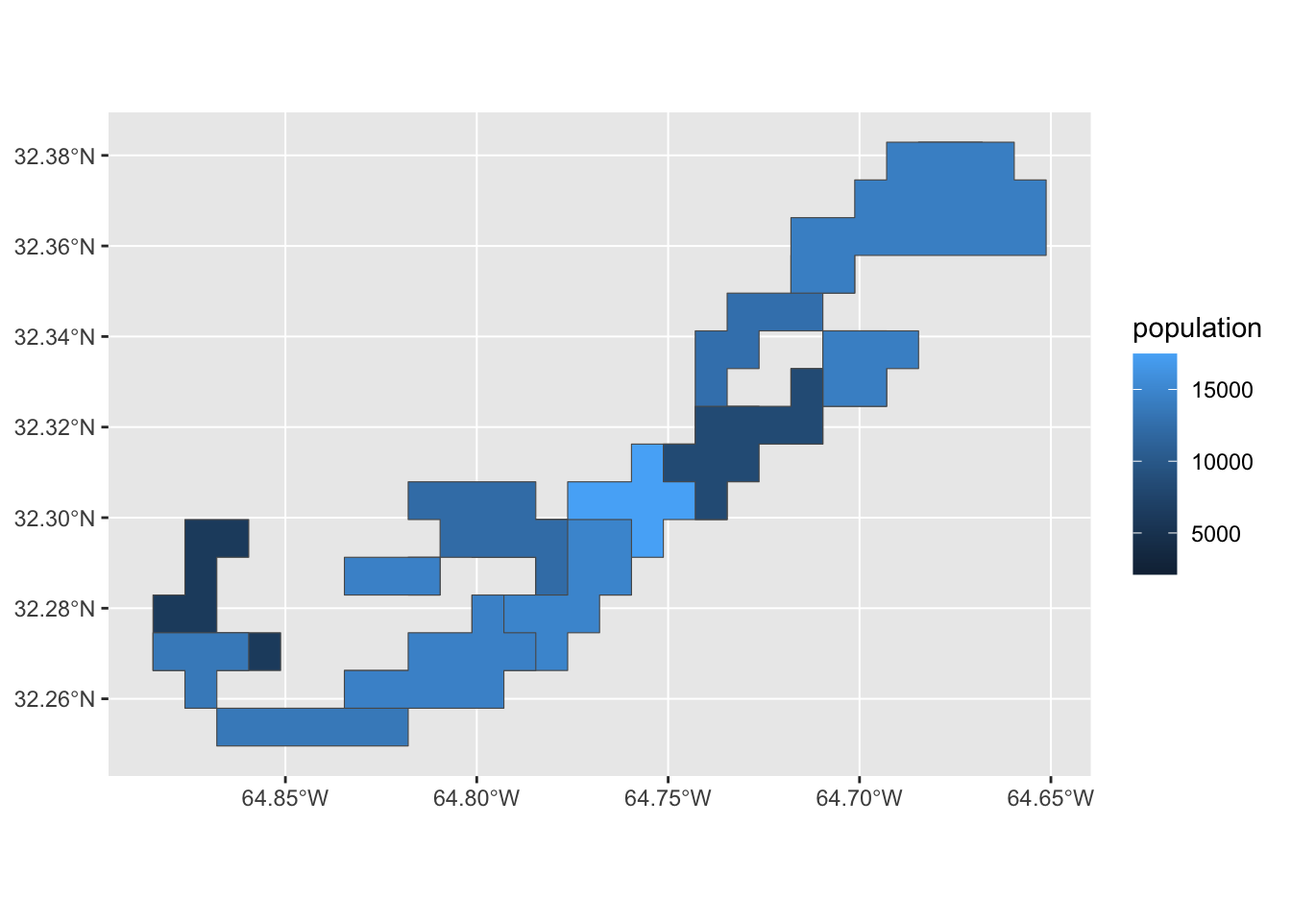
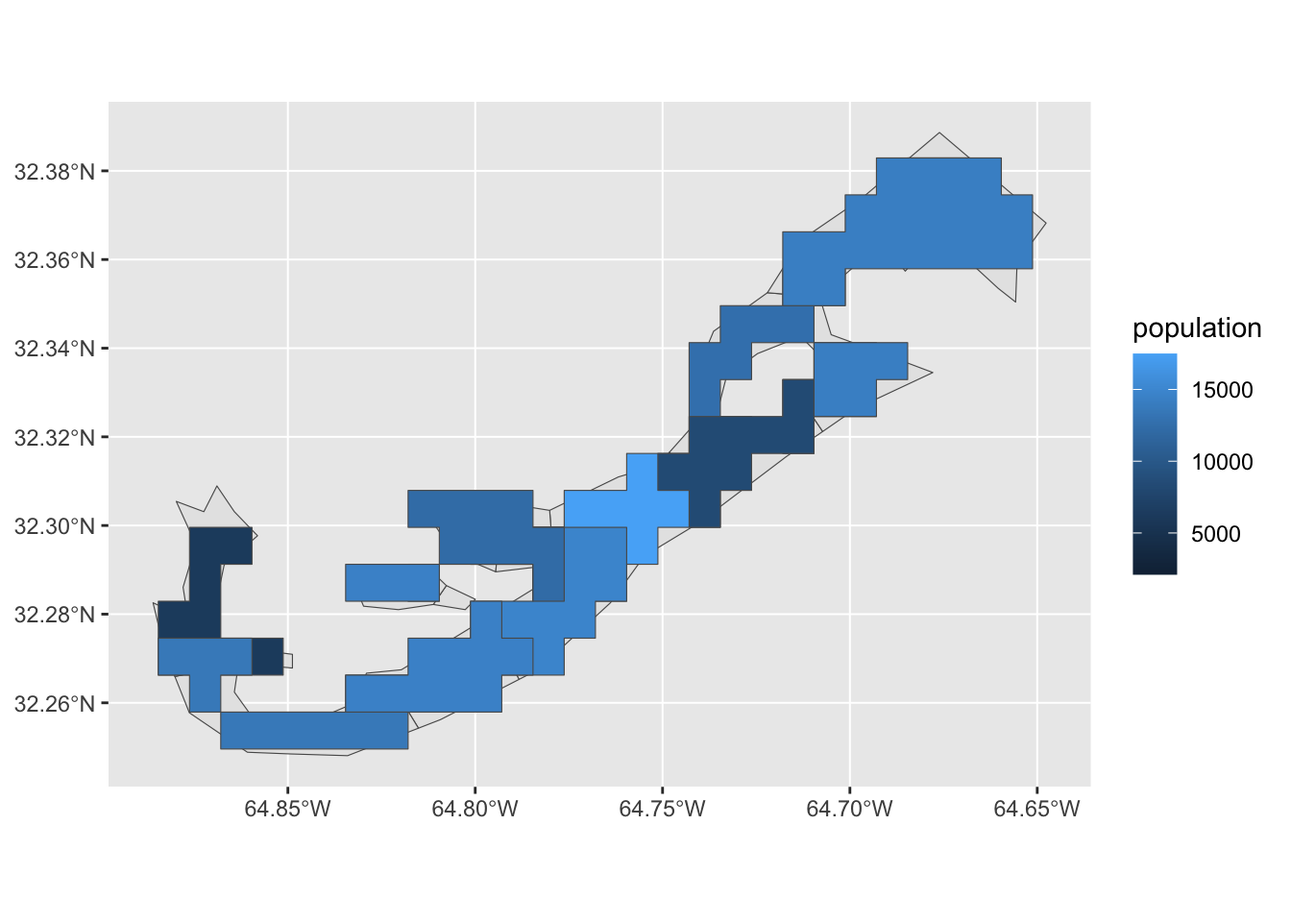
mod6-2

diff --git a/mod6_proj.html b/mod6_proj.html
@@ -583,6 +583,12 @@ framework that’s become so much of the class. For this we use
 pixel in a spatial field represents 3 dimensions: some area of a
 particular 2D resolution (e.g., 30 x 30 m, 1 x 1 km) and some value of
 attribute, the color.</p>
+<p>Say for instance, we wanted to know the spatial distribution of
+population in Bermuda in 2020 at a resolution of 1 x 1 km, we could load
+a raster set from the <a
+href="https://www.worldpop.org/">worldpop.org</a>, and organization
+devoted to distributing such data. For this, we’ll depend on the
+<code>R</code> raster powerhouse package, <code>stars</code></p>
 <pre class="r"><code>library(stars)</code></pre>
 <pre><code>## Loading required package: abind</code></pre>
 <pre class="r"><code>bermuda_pop &lt;- read_stars(&quot;https://data.worldpop.org/GIS/Population_Density/Global_2000_2020_1km/2020/BMU/bmu_pd_2020_1km.tif&quot;) %&gt;% st_crop(bermuda)
@@ -591,15 +597,49 @@ attribute, the color.</p>
   ggplot()+
   geom_stars(data=bermuda_pop)</code></pre>
 <p><img src="mod6_proj_files/figure-html/rastintro-1.png" width="672" /></p>
+<p>Here, we load the 1 km raster using <code>read_stars()</code> and
+cropped the data to the extent of our shape map using
+<code>st_crop()</code>. Plotting is simple as, like with
+<code>sf</code>, <code>stars</code> was designed to work well with
+<code>tidyverse</code> and <code>ggplot</code>. Here, we can make use of
+<code>geom_stars()</code> to plot a <code>stars</code> object in
+<code>ggplot</code>. Notice that, because Bermuda is a small island, the
+1 km resolution is rather coarse.</p>
 </div>
 <div id="combining-shape-and-raster-data" class="section level3">
 <h3>Combining shape and raster data</h3>
+<p>Now, say we wanted to visually assess how these population tiles vary
+with the parish geopolitical values in the the Bermuda map. For this, we
+need to combine the shape and population data and calculate the total
+population in each parish. We can start with the
+<code>bermuda_pop</code> <code>stars</code> object and then:</p>
+<ul>
+<li>set the name of the first (and only) layer to an intiutive name,
+“population”, with <code>setNames()</code></li>
+<li>convert to <code>stars</code> object to an <code>sf</code> object
+with <code>st_as_sf()</code></li>
+<li>join the <code>bermuda</code> shape data to this, now
+<code>sf</code>, object with <code>sf_join</code>. This nests the raster
+(i.e., populaiton) data within the extents of shape (i.e., parish)
+data</li>
+<li>use <code>dplyr</code>’s <code>group_by()</code> to group by the
+parish (<code>name</code>)</li>
+<li>and finally, sum the population based on this grouping.</li>
+</ul>
+<p>What’s left to do is plot with <code>geom_sf()</code> as before with
+the <code>bermuda</code> <code>sf</code> object.</p>
 <pre class="r"><code>bermuda2 &lt;-  bermuda_pop %&gt;% 
   setNames(&quot;population&quot;) %&gt;% 
   st_as_sf() %&gt;% 
   st_join( bermuda) %&gt;% 
   group_by(name) %&gt;% 
-  summarise(population=sum(population))</code></pre>
+  summarise(population=sum(population))
+
+bermuda %&gt;% 
+  ggplot() +
+  geom_sf()+
+  geom_sf(data=bermuda2,aes(fill=population))</code></pre>
+<p><img src="mod6_proj_files/figure-html/comb-1.png" width="672" /></p>
 <pre class="r"><code>bermuda_house &lt;- read_stars(&quot;data/bermuda_house_colors.tiff&quot;) %&gt;% setNames(&quot;house_color&quot;)
 
   ggplot()+
@@ -612,8 +652,8 @@ attribute, the color.</p>
 <pre class="r"><code>library(mapview)
 
 mapview(bermuda2, zcol = &quot;population&quot;)</code></pre>
-<div id="htmlwidget-01418e5c950f62c81c88" style="width:672px;height:480px;" class="leaflet html-widget"></div>
-<script type="application/json" data-for="htmlwidget-01418e5c950f62c81c88">{"x":{"options":{"minZoom":1,"maxZoom":52,"crs":{"crsClass":"L.CRS.EPSG3857","code":null,"proj4def":null,"projectedBounds":null,"options":{}},"preferCanvas":false,"bounceAtZoomLimits":false,"maxBounds":[[[-90,-370]],[[90,370]]]},"calls":[{"method":"addProviderTiles","args":["CartoDB.Positron","CartoDB.Positron","CartoDB.Positron",{"errorTileUrl":"","noWrap":false,"detectRetina":false,"pane":"tilePane"}]},{"method":"addProviderTiles","args":["CartoDB.DarkMatter","CartoDB.DarkMatter","CartoDB.DarkMatter",{"errorTileUrl":"","noWrap":false,"detectRetina":false,"pane":"tilePane"}]},{"method":"addProviderTiles","args":["OpenStreetMap","OpenStreetMap","OpenStreetMap",{"errorTileUrl":"","noWrap":false,"detectRetina":false,"pane":"tilePane"}]},{"method":"addProviderTiles","args":["Esri.WorldImagery","Esri.WorldImagery","Esri.WorldImagery",{"errorTileUrl":"","noWrap":false,"detectRetina":false,"pane":"tilePane"}]},{"method":"addProviderTiles","args":["OpenTopoMap","OpenTopoMap","OpenTopoMap",{"errorTileUrl":"","noWrap":false,"detectRetina":false,"pane":"tilePane"}]},{"method":"createMapPane","args":["polygon",420]},{"method":"addPolygons","args":[[[[{"lng":[-64.7929164147102,-64.8012497480102,-64.8012497480102,-64.7929164147102,-64.7845830814102,-64.7845830814102,-64.7762497481102,-64.7762497481102,-64.7762497481102,-64.7845830814102,-64.7929164147102],"lat":[32.2995833986019,32.2995833986019,32.2912500653019,32.2912500653019,32.2912500653019,32.2829167320019,32.2829167320019,32.2912500653019,32.2995833986019,32.2995833986019,32.2995833986019]}]],[[{"lng":[-64.6762497485102,-64.6845830818102,-64.6845830818102,-64.6845830818102,-64.6762497485102,-64.6679164152102,-64.6679164152102,-64.6679164152102,-64.6762497485102],"lat":[32.3829167316019,32.3829167316019,32.3745833983019,32.3662500650019,32.3662500650019,32.3662500650019,32.3745833983019,32.3829167316019,32.3829167316019]}]],[[{"lng":[-64.7345830816102,-64.7345830816102,-64.7429164149102,-64.7512497482102,-64.7595830815102,-64.7595830815102,-64.7679164148102,-64.7762497481102,-64.7762497481102,-64.7845830814102,-64.7845830814102,-64.7845830814102,-64.7762497481102,-64.7762497481102,-64.7679164148102,-64.7679164148102,-64.7595830815102,-64.7595830815102,-64.7512497482102,-64.7512497482102,-64.7429164149102,-64.7345830816102,-64.7345830816102],"lat":[32.3079167319019,32.3162500652019,32.3162500652019,32.3162500652019,32.3162500652019,32.3079167319019,32.3079167319019,32.3079167319019,32.2995833986019,32.2995833986019,32.2912500653019,32.2829167320019,32.2829167320019,32.2912500653019,32.2912500653019,32.2829167320019,32.2829167320019,32.2912500653019,32.2912500653019,32.2995833986019,32.2995833986019,32.2995833986019,32.3079167319019]}]],[[{"lng":[-64.7095830817102,-64.7179164150102,-64.7179164150102,-64.7179164150102,-64.7095830817102,-64.7095830817102,-64.7012497484102,-64.6929164151102,-64.6929164151102,-64.6929164151102,-64.7012497484102,-64.7095830817102,-64.7095830817102],"lat":[32.3329167318019,32.3329167318019,32.3245833985019,32.3162500652019,32.3162500652019,32.3245833985019,32.3245833985019,32.3245833985019,32.3329167318019,32.3412500651019,32.3412500651019,32.3412500651019,32.3329167318019]}],[{"lng":[-64.7429164149102,-64.7429164149102,-64.7429164149102,-64.7345830816102,-64.7262497483102,-64.7262497483102,-64.7345830816102,-64.7345830816102,-64.7262497483102,-64.7262497483102,-64.7179164150102,-64.7095830817102,-64.7095830817102,-64.7012497484102,-64.7012497484102,-64.7095830817102,-64.7179164150102,-64.7179164150102,-64.7262497483102,-64.7345830816102,-64.7345830816102,-64.7429164149102,-64.7429164149102],"lat":[32.3329167318019,32.3245833985019,32.3162500652019,32.3162500652019,32.3162500652019,32.3245833985019,32.3245833985019,32.3329167318019,32.3329167318019,32.3412500651019,32.3412500651019,32.3412500651019,32.3495833984019,32.3495833984019,32.3579167317019,32.3579167317019,32.3579167317019,32.3495833984019,32.3495833984019,32.3495833984019,32.3412500651019,32.3412500651019,32.3329167318019]}]],[[{"lng":[-64.8012497480102,-64.8012497480102,-64.7929164147102,-64.7845830814102,-64.7762497481102,-64.7762497481102,-64.7679164148102,-64.7679164148102,-64.7595830815102,-64.7595830815102,-64.7595830815102,-64.7679164148102,-64.7762497481102,-64.7845830814102,-64.7845830814102,-64.7845830814102,-64.7929164147102,-64.8012497480102,-64.8012497480102],"lat":[32.2745833987019,32.2662500654019,32.2662500654019,32.2662500654019,32.2662500654019,32.2745833987019,32.2745833987019,32.2829167320019,32.2829167320019,32.2912500653019,32.2995833986019,32.2995833986019,32.2995833986019,32.2995833986019,32.2912500653019,32.2829167320019,32.2829167320019,32.2829167320019,32.2745833987019]}],[{"lng":[-64.8179164146102,-64.8095830813102,-64.8095830813102,-64.8179164146102,-64.8179164146102],"lat":[32.2829167320019,32.2829167320019,32.2912500653019,32.2912500653019,32.2829167320019]}]],[[{"lng":[-64.8095830813102,-64.8179164146102,-64.8179164146102,-64.8095830813102,-64.8095830813102,-64.8012497480102,-64.7929164147102,-64.7845830814102,-64.7845830814102,-64.7762497481102,-64.7762497481102,-64.7762497481102,-64.7845830814102,-64.7845830814102,-64.7929164147102,-64.8012497480102,-64.8095830813102],"lat":[32.3079167319019,32.3079167319019,32.2995833986019,32.2995833986019,32.2912500653019,32.2912500653019,32.2912500653019,32.2912500653019,32.2829167320019,32.2829167320019,32.2912500653019,32.2995833986019,32.2995833986019,32.3079167319019,32.3079167319019,32.3079167319019,32.3079167319019]}]],[[{"lng":[-64.6512497486102,-64.6512497486102,-64.6595830819102,-64.6595830819102,-64.6679164152102,-64.6762497485102,-64.6845830818102,-64.6929164151102,-64.6929164151102,-64.7012497484102,-64.7012497484102,-64.7095830817102,-64.7179164150102,-64.7179164150102,-64.7179164150102,-64.7095830817102,-64.7012497484102,-64.7012497484102,-64.6929164151102,-64.6845830818102,-64.6762497485102,-64.6679164152102,-64.6595830819102,-64.6512497486102,-64.6512497486102],"lat":[32.3662500650019,32.3745833983019,32.3745833983019,32.3829167316019,32.3829167316019,32.3829167316019,32.3829167316019,32.3829167316019,32.3745833983019,32.3745833983019,32.3662500650019,32.3662500650019,32.3662500650019,32.3579167317019,32.3495833984019,32.3495833984019,32.3495833984019,32.3579167317019,32.3579167317019,32.3579167317019,32.3579167317019,32.3579167317019,32.3579167317019,32.3579167317019,32.3662500650019]}],[{"lng":[-64.7095830817102,-64.7012497484102,-64.6929164151102,-64.6929164151102,-64.6845830818102,-64.6845830818102,-64.6929164151102,-64.7012497484102,-64.7095830817102,-64.7095830817102,-64.7095830817102],"lat":[32.3245833985019,32.3245833985019,32.3245833985019,32.3329167318019,32.3329167318019,32.3412500651019,32.3412500651019,32.3412500651019,32.3412500651019,32.3329167318019,32.3245833985019]}]],[[{"lng":[-64.8679164144102,-64.8762497477102,-64.8762497477102,-64.8762497477102,-64.8845830810102,-64.8845830810102,-64.8845830810102,-64.8762497477102,-64.8679164144102,-64.8595830811102,-64.8512497478102,-64.8512497478102,-64.8595830811102,-64.8679164144102,-64.8679164144102,-64.8679164144102,-64.8595830811102,-64.8595830811102,-64.8679164144102],"lat":[32.2995833986019,32.2995833986019,32.2912500653019,32.2829167320019,32.2829167320019,32.2745833987019,32.2662500654019,32.2662500654019,32.2662500654019,32.2662500654019,32.2662500654019,32.2745833987019,32.2745833987019,32.2745833987019,32.2829167320019,32.2912500653019,32.2912500653019,32.2995833986019,32.2995833986019]}]],[[{"lng":[-64.7429164149102,-64.7512497482102,-64.7512497482102,-64.7429164149102,-64.7429164149102,-64.7345830816102,-64.7345830816102,-64.7262497483102,-64.7262497483102,-64.7179164150102,-64.7095830817102,-64.7095830817102,-64.7095830817102,-64.7179164150102,-64.7179164150102,-64.7262497483102,-64.7345830816102,-64.7429164149102,-64.7429164149102],"lat":[32.3162500652019,32.3162500652019,32.3079167319019,32.3079167319019,32.2995833986019,32.2995833986019,32.3079167319019,32.3079167319019,32.3162500652019,32.3162500652019,32.3162500652019,32.3245833985019,32.3329167318019,32.3329167318019,32.3245833985019,32.3245833985019,32.3245833985019,32.3245833985019,32.3162500652019]}]],[[{"lng":[-64.8762497477102,-64.8679164144102,-64.8679164144102,-64.8595830811102,-64.8595830811102,-64.8679164144102,-64.8762497477102,-64.8845830810102,-64.8845830810102,-64.8762497477102,-64.8762497477102],"lat":[32.2579167321019,32.2579167321019,32.2662500654019,32.2662500654019,32.2745833987019,32.2745833987019,32.2745833987019,32.2745833987019,32.2662500654019,32.2662500654019,32.2579167321019]}],[{"lng":[-64.8679164144102,-64.8595830811102,-64.8512497478102,-64.8429164145102,-64.8345830812102,-64.8262497479102,-64.8179164146102,-64.8179164146102,-64.8095830813102,-64.8095830813102,-64.8179164146102,-64.8262497479102,-64.8345830812102,-64.8345830812102,-64.8429164145102,-64.8512497478102,-64.8595830811102,-64.8679164144102,-64.8679164144102],"lat":[32.2495833988019,32.2495833988019,32.2495833988019,32.2495833988019,32.2495833988019,32.2495833988019,32.2495833988019,32.2579167321019,32.2579167321019,32.2662500654019,32.2662500654019,32.2662500654019,32.2662500654019,32.2579167321019,32.2579167321019,32.2579167321019,32.2579167321019,32.2579167321019,32.2495833988019]}]],[[{"lng":[-64.8179164146102,-64.8262497479102,-64.8345830812102,-64.8345830812102,-64.8262497479102,-64.8179164146102,-64.8095830813102,-64.8095830813102,-64.8179164146102],"lat":[32.2912500653019,32.2912500653019,32.2912500653019,32.2829167320019,32.2829167320019,32.2829167320019,32.2829167320019,32.2912500653019,32.2912500653019]}],[{"lng":[-64.8262497479102,-64.8345830812102,-64.8345830812102,-64.8262497479102,-64.8179164146102,-64.8095830813102,-64.8012497480102,-64.7929164147102,-64.7929164147102,-64.7845830814102,-64.7845830814102,-64.7929164147102,-64.7929164147102,-64.8012497480102,-64.8012497480102,-64.8095830813102,-64.8179164146102,-64.8179164146102,-64.8262497479102],"lat":[32.2662500654019,32.2662500654019,32.2579167321019,32.2579167321019,32.2579167321019,32.2579167321019,32.2579167321019,32.2579167321019,32.2662500654019,32.2662500654019,32.2745833987019,32.2745833987019,32.2829167320019,32.2829167320019,32.2745833987019,32.2745833987019,32.2745833987019,32.2662500654019,32.2662500654019]}]]],null,"bermuda2 - population",{"crs":{"crsClass":"L.CRS.EPSG3857","code":null,"proj4def":null,"projectedBounds":null,"options":{}},"pane":"polygon","stroke":true,"color":"#333333","weight":0.5,"opacity":[0.9,0.9,0.9,0.9,0.9,0.9,0.9,0.9,0.9,0.9,0.9],"fill":true,"fillColor":["#006791","#4B0055","#FDE333","#00C475","#7ED357","#00C475","#7ED357","#006791","#008298","#00C475","#7ED357"],"fillOpacity":[0.6,0.6,0.6,0.6,0.6,0.6,0.6,0.6,0.6,0.6,0.6],"smoothFactor":1,"noClip":false},["<div class='scrollableContainer'><table class=mapview-popup id='popup'><tr class='coord'><td><\/td><th><b>Feature ID&emsp;<\/b><\/th><td>1&emsp;<\/td><\/tr><tr><td>1<\/td><th>name&emsp;<\/th><td>City of Hamilton&emsp;<\/td><\/tr><tr><td>2<\/td><th>population&emsp;<\/th><td> 6340.716&emsp;<\/td><\/tr><tr><td>3<\/td><th>geometry&emsp;<\/th><td>sfc_MULTIPOLYGON&emsp;<\/td><\/tr><\/table><\/div>","<div class='scrollableContainer'><table class=mapview-popup id='popup'><tr class='coord'><td><\/td><th><b>Feature ID&emsp;<\/b><\/th><td>2&emsp;<\/td><\/tr><tr><td>1<\/td><th>name&emsp;<\/th><td>City of Saint George&emsp;<\/td><\/tr><tr><td>2<\/td><th>population&emsp;<\/th><td> 2112.074&emsp;<\/td><\/tr><tr><td>3<\/td><th>geometry&emsp;<\/th><td>sfc_MULTIPOLYGON&emsp;<\/td><\/tr><\/table><\/div>","<div class='scrollableContainer'><table class=mapview-popup id='popup'><tr class='coord'><td><\/td><th><b>Feature ID&emsp;<\/b><\/th><td>3&emsp;<\/td><\/tr><tr><td>1<\/td><th>name&emsp;<\/th><td>Devonshire&emsp;<\/td><\/tr><tr><td>2<\/td><th>population&emsp;<\/th><td>17478.636&emsp;<\/td><\/tr><tr><td>3<\/td><th>geometry&emsp;<\/th><td>sfc_MULTIPOLYGON&emsp;<\/td><\/tr><\/table><\/div>","<div class='scrollableContainer'><table class=mapview-popup id='popup'><tr class='coord'><td><\/td><th><b>Feature ID&emsp;<\/b><\/th><td>4&emsp;<\/td><\/tr><tr><td>1<\/td><th>name&emsp;<\/th><td>Hamilton&emsp;<\/td><\/tr><tr><td>2<\/td><th>population&emsp;<\/th><td>12606.292&emsp;<\/td><\/tr><tr><td>3<\/td><th>geometry&emsp;<\/th><td>sfc_MULTIPOLYGON&emsp;<\/td><\/tr><\/table><\/div>","<div class='scrollableContainer'><table class=mapview-popup id='popup'><tr class='coord'><td><\/td><th><b>Feature ID&emsp;<\/b><\/th><td>5&emsp;<\/td><\/tr><tr><td>1<\/td><th>name&emsp;<\/th><td>Paget&emsp;<\/td><\/tr><tr><td>2<\/td><th>population&emsp;<\/th><td>14804.220&emsp;<\/td><\/tr><tr><td>3<\/td><th>geometry&emsp;<\/th><td>sfc_MULTIPOLYGON&emsp;<\/td><\/tr><\/table><\/div>","<div class='scrollableContainer'><table class=mapview-popup id='popup'><tr class='coord'><td><\/td><th><b>Feature ID&emsp;<\/b><\/th><td>6&emsp;<\/td><\/tr><tr><td>1<\/td><th>name&emsp;<\/th><td>Pembroke&emsp;<\/td><\/tr><tr><td>2<\/td><th>population&emsp;<\/th><td>12243.552&emsp;<\/td><\/tr><tr><td>3<\/td><th>geometry&emsp;<\/th><td>sfc_MULTIPOLYGON&emsp;<\/td><\/tr><\/table><\/div>","<div class='scrollableContainer'><table class=mapview-popup id='popup'><tr class='coord'><td><\/td><th><b>Feature ID&emsp;<\/b><\/th><td>7&emsp;<\/td><\/tr><tr><td>1<\/td><th>name&emsp;<\/th><td>Saint George's&emsp;<\/td><\/tr><tr><td>2<\/td><th>population&emsp;<\/th><td>14198.692&emsp;<\/td><\/tr><tr><td>3<\/td><th>geometry&emsp;<\/th><td>sfc_MULTIPOLYGON&emsp;<\/td><\/tr><\/table><\/div>","<div class='scrollableContainer'><table class=mapview-popup id='popup'><tr class='coord'><td><\/td><th><b>Feature ID&emsp;<\/b><\/th><td>8&emsp;<\/td><\/tr><tr><td>1<\/td><th>name&emsp;<\/th><td>Sandys&emsp;<\/td><\/tr><tr><td>2<\/td><th>population&emsp;<\/th><td> 6111.398&emsp;<\/td><\/tr><tr><td>3<\/td><th>geometry&emsp;<\/th><td>sfc_MULTIPOLYGON&emsp;<\/td><\/tr><\/table><\/div>","<div class='scrollableContainer'><table class=mapview-popup id='popup'><tr class='coord'><td><\/td><th><b>Feature ID&emsp;<\/b><\/th><td>9&emsp;<\/td><\/tr><tr><td>1<\/td><th>name&emsp;<\/th><td>Smith's&emsp;<\/td><\/tr><tr><td>2<\/td><th>population&emsp;<\/th><td> 8230.446&emsp;<\/td><\/tr><tr><td>3<\/td><th>geometry&emsp;<\/th><td>sfc_MULTIPOLYGON&emsp;<\/td><\/tr><\/table><\/div>","<div class='scrollableContainer'><table class=mapview-popup id='popup'><tr class='coord'><td><\/td><th><b>Feature ID&emsp;<\/b><\/th><td>10&emsp;<\/td><\/tr><tr><td>1<\/td><th>name&emsp;<\/th><td>Southampton&emsp;<\/td><\/tr><tr><td>2<\/td><th>population&emsp;<\/th><td>13538.276&emsp;<\/td><\/tr><tr><td>3<\/td><th>geometry&emsp;<\/th><td>sfc_MULTIPOLYGON&emsp;<\/td><\/tr><\/table><\/div>","<div class='scrollableContainer'><table class=mapview-popup id='popup'><tr class='coord'><td><\/td><th><b>Feature ID&emsp;<\/b><\/th><td>11&emsp;<\/td><\/tr><tr><td>1<\/td><th>name&emsp;<\/th><td>Warwick&emsp;<\/td><\/tr><tr><td>2<\/td><th>population&emsp;<\/th><td>14461.775&emsp;<\/td><\/tr><tr><td>3<\/td><th>geometry&emsp;<\/th><td>sfc_MULTIPOLYGON&emsp;<\/td><\/tr><\/table><\/div>"],{"maxWidth":800,"minWidth":50,"autoPan":true,"keepInView":false,"closeButton":true,"closeOnClick":true,"className":""},["6340.71606445312","2112.07443237305","17478.6361694336","12606.2922363281","14804.2196350098","12243.551574707","14198.6921081543","6111.39785766602","8230.44647216797","13538.2760009766","14461.7752380371"],{"interactive":false,"permanent":false,"direction":"auto","opacity":1,"offset":[0,0],"textsize":"10px","textOnly":false,"className":"","sticky":true},{"stroke":true,"weight":1,"opacity":0.9,"fillOpacity":0.84,"bringToFront":false,"sendToBack":false}]},{"method":"addScaleBar","args":[{"maxWidth":100,"metric":true,"imperial":true,"updateWhenIdle":true,"position":"bottomleft"}]},{"method":"addHomeButton","args":[-64.8845830810102,32.2495833988019,-64.6512497486102,32.3829167316019,true,"bermuda2 - population","Zoom to bermuda2 - population","<strong> bermuda2 - population <\/strong>","bottomright"]},{"method":"addLayersControl","args":[["CartoDB.Positron","CartoDB.DarkMatter","OpenStreetMap","Esri.WorldImagery","OpenTopoMap"],"bermuda2 - population",{"collapsed":true,"autoZIndex":true,"position":"topleft"}]},{"method":"addLegend","args":[{"colors":["#4B0055 , #403073 12.285933574026%, #1C598A 25.3012068291776%, #017D97 38.3164800843292%, #029E94 51.3317533394808%, #05BA81 64.3470265946324%, #6BCF60 77.362299849784%, #C4DE34 90.3775731049356%, #FDE333 "],"labels":["4,000","6,000","8,000","10,000","12,000","14,000","16,000"],"na_color":null,"na_label":"NA","opacity":1,"position":"topright","type":"numeric","title":"bermuda2 - population","extra":{"p_1":0.12285933574026,"p_n":0.903775731049356},"layerId":null,"className":"info legend","group":"bermuda2 - population"}]}],"limits":{"lat":[32.2495833988019,32.3829167316019],"lng":[-64.8845830810102,-64.6512497486102]},"fitBounds":[32.2495833988019,-64.8845830810102,32.3829167316019,-64.6512497486102,[]]},"evals":[],"jsHooks":{"render":[{"code":"function(el, x, data) {\n  return (\n      function(el, x, data) {\n      // get the leaflet map\n      var map = this; //HTMLWidgets.find('#' + el.id);\n      // we need a new div element because we have to handle\n      // the mouseover output separately\n      // debugger;\n      function addElement () {\n      // generate new div Element\n      var newDiv = $(document.createElement('div'));\n      // append at end of leaflet htmlwidget container\n      $(el).append(newDiv);\n      //provide ID and style\n      newDiv.addClass('lnlt');\n      newDiv.css({\n      'position': 'relative',\n      'bottomleft':  '0px',\n      'background-color': 'rgba(255, 255, 255, 0.7)',\n      'box-shadow': '0 0 2px #bbb',\n      'background-clip': 'padding-box',\n      'margin': '0',\n      'padding-left': '5px',\n      'color': '#333',\n      'font': '9px/1.5 \"Helvetica Neue\", Arial, Helvetica, sans-serif',\n      'z-index': '700',\n      });\n      return newDiv;\n      }\n\n\n      // check for already existing lnlt class to not duplicate\n      var lnlt = $(el).find('.lnlt');\n\n      if(!lnlt.length) {\n      lnlt = addElement();\n\n      // grab the special div we generated in the beginning\n      // and put the mousmove output there\n\n      map.on('mousemove', function (e) {\n      if (e.originalEvent.ctrlKey) {\n      if (document.querySelector('.lnlt') === null) lnlt = addElement();\n      lnlt.text(\n                           ' lon: ' + (e.latlng.lng).toFixed(5) +\n                           ' | lat: ' + (e.latlng.lat).toFixed(5) +\n                           ' | zoom: ' + map.getZoom() +\n                           ' | x: ' + L.CRS.EPSG3857.project(e.latlng).x.toFixed(0) +\n                           ' | y: ' + L.CRS.EPSG3857.project(e.latlng).y.toFixed(0) +\n                           ' | epsg: 3857 ' +\n                           ' | proj4: +proj=merc +a=6378137 +b=6378137 +lat_ts=0.0 +lon_0=0.0 +x_0=0.0 +y_0=0 +k=1.0 +units=m +nadgrids=@null +no_defs ');\n      } else {\n      if (document.querySelector('.lnlt') === null) lnlt = addElement();\n      lnlt.text(\n                      ' lon: ' + (e.latlng.lng).toFixed(5) +\n                      ' | lat: ' + (e.latlng.lat).toFixed(5) +\n                      ' | zoom: ' + map.getZoom() + ' ');\n      }\n      });\n\n      // remove the lnlt div when mouse leaves map\n      map.on('mouseout', function (e) {\n      var strip = document.querySelector('.lnlt');\n      if( strip !==null) strip.remove();\n      });\n\n      };\n\n      //$(el).keypress(67, function(e) {\n      map.on('preclick', function(e) {\n      if (e.originalEvent.ctrlKey) {\n      if (document.querySelector('.lnlt') === null) lnlt = addElement();\n      lnlt.text(\n                      ' lon: ' + (e.latlng.lng).toFixed(5) +\n                      ' | lat: ' + (e.latlng.lat).toFixed(5) +\n                      ' | zoom: ' + map.getZoom() + ' ');\n      var txt = document.querySelector('.lnlt').textContent;\n      console.log(txt);\n      //txt.innerText.focus();\n      //txt.select();\n      setClipboardText('\"' + txt + '\"');\n      }\n      });\n\n      }\n      ).call(this.getMap(), el, x, data);\n}","data":null},{"code":"function(el, x, data) {\n  return (function(el,x,data){\n           var map = this;\n\n           map.on('keypress', function(e) {\n               console.log(e.originalEvent.code);\n               var key = e.originalEvent.code;\n               if (key === 'KeyE') {\n                   var bb = this.getBounds();\n                   var txt = JSON.stringify(bb);\n                   console.log(txt);\n\n                   setClipboardText('\\'' + txt + '\\'');\n               }\n           })\n        }).call(this.getMap(), el, x, data);\n}","data":null}]}}</script>
+<div id="htmlwidget-69444fe36f92cf6d1955" style="width:672px;height:480px;" class="leaflet html-widget"></div>
+<script type="application/json" data-for="htmlwidget-69444fe36f92cf6d1955">{"x":{"options":{"minZoom":1,"maxZoom":52,"crs":{"crsClass":"L.CRS.EPSG3857","code":null,"proj4def":null,"projectedBounds":null,"options":{}},"preferCanvas":false,"bounceAtZoomLimits":false,"maxBounds":[[[-90,-370]],[[90,370]]]},"calls":[{"method":"addProviderTiles","args":["CartoDB.Positron","CartoDB.Positron","CartoDB.Positron",{"errorTileUrl":"","noWrap":false,"detectRetina":false,"pane":"tilePane"}]},{"method":"addProviderTiles","args":["CartoDB.DarkMatter","CartoDB.DarkMatter","CartoDB.DarkMatter",{"errorTileUrl":"","noWrap":false,"detectRetina":false,"pane":"tilePane"}]},{"method":"addProviderTiles","args":["OpenStreetMap","OpenStreetMap","OpenStreetMap",{"errorTileUrl":"","noWrap":false,"detectRetina":false,"pane":"tilePane"}]},{"method":"addProviderTiles","args":["Esri.WorldImagery","Esri.WorldImagery","Esri.WorldImagery",{"errorTileUrl":"","noWrap":false,"detectRetina":false,"pane":"tilePane"}]},{"method":"addProviderTiles","args":["OpenTopoMap","OpenTopoMap","OpenTopoMap",{"errorTileUrl":"","noWrap":false,"detectRetina":false,"pane":"tilePane"}]},{"method":"createMapPane","args":["polygon",420]},{"method":"addPolygons","args":[[[[{"lng":[-64.7929164147102,-64.8012497480102,-64.8012497480102,-64.7929164147102,-64.7845830814102,-64.7845830814102,-64.7762497481102,-64.7762497481102,-64.7762497481102,-64.7845830814102,-64.7929164147102],"lat":[32.2995833986019,32.2995833986019,32.2912500653019,32.2912500653019,32.2912500653019,32.2829167320019,32.2829167320019,32.2912500653019,32.2995833986019,32.2995833986019,32.2995833986019]}]],[[{"lng":[-64.6762497485102,-64.6845830818102,-64.6845830818102,-64.6845830818102,-64.6762497485102,-64.6679164152102,-64.6679164152102,-64.6679164152102,-64.6762497485102],"lat":[32.3829167316019,32.3829167316019,32.3745833983019,32.3662500650019,32.3662500650019,32.3662500650019,32.3745833983019,32.3829167316019,32.3829167316019]}]],[[{"lng":[-64.7345830816102,-64.7345830816102,-64.7429164149102,-64.7512497482102,-64.7595830815102,-64.7595830815102,-64.7679164148102,-64.7762497481102,-64.7762497481102,-64.7845830814102,-64.7845830814102,-64.7845830814102,-64.7762497481102,-64.7762497481102,-64.7679164148102,-64.7679164148102,-64.7595830815102,-64.7595830815102,-64.7512497482102,-64.7512497482102,-64.7429164149102,-64.7345830816102,-64.7345830816102],"lat":[32.3079167319019,32.3162500652019,32.3162500652019,32.3162500652019,32.3162500652019,32.3079167319019,32.3079167319019,32.3079167319019,32.2995833986019,32.2995833986019,32.2912500653019,32.2829167320019,32.2829167320019,32.2912500653019,32.2912500653019,32.2829167320019,32.2829167320019,32.2912500653019,32.2912500653019,32.2995833986019,32.2995833986019,32.2995833986019,32.3079167319019]}]],[[{"lng":[-64.7095830817102,-64.7179164150102,-64.7179164150102,-64.7179164150102,-64.7095830817102,-64.7095830817102,-64.7012497484102,-64.6929164151102,-64.6929164151102,-64.6929164151102,-64.7012497484102,-64.7095830817102,-64.7095830817102],"lat":[32.3329167318019,32.3329167318019,32.3245833985019,32.3162500652019,32.3162500652019,32.3245833985019,32.3245833985019,32.3245833985019,32.3329167318019,32.3412500651019,32.3412500651019,32.3412500651019,32.3329167318019]}],[{"lng":[-64.7429164149102,-64.7429164149102,-64.7429164149102,-64.7345830816102,-64.7262497483102,-64.7262497483102,-64.7345830816102,-64.7345830816102,-64.7262497483102,-64.7262497483102,-64.7179164150102,-64.7095830817102,-64.7095830817102,-64.7012497484102,-64.7012497484102,-64.7095830817102,-64.7179164150102,-64.7179164150102,-64.7262497483102,-64.7345830816102,-64.7345830816102,-64.7429164149102,-64.7429164149102],"lat":[32.3329167318019,32.3245833985019,32.3162500652019,32.3162500652019,32.3162500652019,32.3245833985019,32.3245833985019,32.3329167318019,32.3329167318019,32.3412500651019,32.3412500651019,32.3412500651019,32.3495833984019,32.3495833984019,32.3579167317019,32.3579167317019,32.3579167317019,32.3495833984019,32.3495833984019,32.3495833984019,32.3412500651019,32.3412500651019,32.3329167318019]}]],[[{"lng":[-64.8012497480102,-64.8012497480102,-64.7929164147102,-64.7845830814102,-64.7762497481102,-64.7762497481102,-64.7679164148102,-64.7679164148102,-64.7595830815102,-64.7595830815102,-64.7595830815102,-64.7679164148102,-64.7762497481102,-64.7845830814102,-64.7845830814102,-64.7845830814102,-64.7929164147102,-64.8012497480102,-64.8012497480102],"lat":[32.2745833987019,32.2662500654019,32.2662500654019,32.2662500654019,32.2662500654019,32.2745833987019,32.2745833987019,32.2829167320019,32.2829167320019,32.2912500653019,32.2995833986019,32.2995833986019,32.2995833986019,32.2995833986019,32.2912500653019,32.2829167320019,32.2829167320019,32.2829167320019,32.2745833987019]}],[{"lng":[-64.8179164146102,-64.8095830813102,-64.8095830813102,-64.8179164146102,-64.8179164146102],"lat":[32.2829167320019,32.2829167320019,32.2912500653019,32.2912500653019,32.2829167320019]}]],[[{"lng":[-64.8095830813102,-64.8179164146102,-64.8179164146102,-64.8095830813102,-64.8095830813102,-64.8012497480102,-64.7929164147102,-64.7845830814102,-64.7845830814102,-64.7762497481102,-64.7762497481102,-64.7762497481102,-64.7845830814102,-64.7845830814102,-64.7929164147102,-64.8012497480102,-64.8095830813102],"lat":[32.3079167319019,32.3079167319019,32.2995833986019,32.2995833986019,32.2912500653019,32.2912500653019,32.2912500653019,32.2912500653019,32.2829167320019,32.2829167320019,32.2912500653019,32.2995833986019,32.2995833986019,32.3079167319019,32.3079167319019,32.3079167319019,32.3079167319019]}]],[[{"lng":[-64.6512497486102,-64.6512497486102,-64.6595830819102,-64.6595830819102,-64.6679164152102,-64.6762497485102,-64.6845830818102,-64.6929164151102,-64.6929164151102,-64.7012497484102,-64.7012497484102,-64.7095830817102,-64.7179164150102,-64.7179164150102,-64.7179164150102,-64.7095830817102,-64.7012497484102,-64.7012497484102,-64.6929164151102,-64.6845830818102,-64.6762497485102,-64.6679164152102,-64.6595830819102,-64.6512497486102,-64.6512497486102],"lat":[32.3662500650019,32.3745833983019,32.3745833983019,32.3829167316019,32.3829167316019,32.3829167316019,32.3829167316019,32.3829167316019,32.3745833983019,32.3745833983019,32.3662500650019,32.3662500650019,32.3662500650019,32.3579167317019,32.3495833984019,32.3495833984019,32.3495833984019,32.3579167317019,32.3579167317019,32.3579167317019,32.3579167317019,32.3579167317019,32.3579167317019,32.3579167317019,32.3662500650019]}],[{"lng":[-64.7095830817102,-64.7012497484102,-64.6929164151102,-64.6929164151102,-64.6845830818102,-64.6845830818102,-64.6929164151102,-64.7012497484102,-64.7095830817102,-64.7095830817102,-64.7095830817102],"lat":[32.3245833985019,32.3245833985019,32.3245833985019,32.3329167318019,32.3329167318019,32.3412500651019,32.3412500651019,32.3412500651019,32.3412500651019,32.3329167318019,32.3245833985019]}]],[[{"lng":[-64.8679164144102,-64.8762497477102,-64.8762497477102,-64.8762497477102,-64.8845830810102,-64.8845830810102,-64.8845830810102,-64.8762497477102,-64.8679164144102,-64.8595830811102,-64.8512497478102,-64.8512497478102,-64.8595830811102,-64.8679164144102,-64.8679164144102,-64.8679164144102,-64.8595830811102,-64.8595830811102,-64.8679164144102],"lat":[32.2995833986019,32.2995833986019,32.2912500653019,32.2829167320019,32.2829167320019,32.2745833987019,32.2662500654019,32.2662500654019,32.2662500654019,32.2662500654019,32.2662500654019,32.2745833987019,32.2745833987019,32.2745833987019,32.2829167320019,32.2912500653019,32.2912500653019,32.2995833986019,32.2995833986019]}]],[[{"lng":[-64.7429164149102,-64.7512497482102,-64.7512497482102,-64.7429164149102,-64.7429164149102,-64.7345830816102,-64.7345830816102,-64.7262497483102,-64.7262497483102,-64.7179164150102,-64.7095830817102,-64.7095830817102,-64.7095830817102,-64.7179164150102,-64.7179164150102,-64.7262497483102,-64.7345830816102,-64.7429164149102,-64.7429164149102],"lat":[32.3162500652019,32.3162500652019,32.3079167319019,32.3079167319019,32.2995833986019,32.2995833986019,32.3079167319019,32.3079167319019,32.3162500652019,32.3162500652019,32.3162500652019,32.3245833985019,32.3329167318019,32.3329167318019,32.3245833985019,32.3245833985019,32.3245833985019,32.3245833985019,32.3162500652019]}]],[[{"lng":[-64.8762497477102,-64.8679164144102,-64.8679164144102,-64.8595830811102,-64.8595830811102,-64.8679164144102,-64.8762497477102,-64.8845830810102,-64.8845830810102,-64.8762497477102,-64.8762497477102],"lat":[32.2579167321019,32.2579167321019,32.2662500654019,32.2662500654019,32.2745833987019,32.2745833987019,32.2745833987019,32.2745833987019,32.2662500654019,32.2662500654019,32.2579167321019]}],[{"lng":[-64.8679164144102,-64.8595830811102,-64.8512497478102,-64.8429164145102,-64.8345830812102,-64.8262497479102,-64.8179164146102,-64.8179164146102,-64.8095830813102,-64.8095830813102,-64.8179164146102,-64.8262497479102,-64.8345830812102,-64.8345830812102,-64.8429164145102,-64.8512497478102,-64.8595830811102,-64.8679164144102,-64.8679164144102],"lat":[32.2495833988019,32.2495833988019,32.2495833988019,32.2495833988019,32.2495833988019,32.2495833988019,32.2495833988019,32.2579167321019,32.2579167321019,32.2662500654019,32.2662500654019,32.2662500654019,32.2662500654019,32.2579167321019,32.2579167321019,32.2579167321019,32.2579167321019,32.2579167321019,32.2495833988019]}]],[[{"lng":[-64.8179164146102,-64.8262497479102,-64.8345830812102,-64.8345830812102,-64.8262497479102,-64.8179164146102,-64.8095830813102,-64.8095830813102,-64.8179164146102],"lat":[32.2912500653019,32.2912500653019,32.2912500653019,32.2829167320019,32.2829167320019,32.2829167320019,32.2829167320019,32.2912500653019,32.2912500653019]}],[{"lng":[-64.8262497479102,-64.8345830812102,-64.8345830812102,-64.8262497479102,-64.8179164146102,-64.8095830813102,-64.8012497480102,-64.7929164147102,-64.7929164147102,-64.7845830814102,-64.7845830814102,-64.7929164147102,-64.7929164147102,-64.8012497480102,-64.8012497480102,-64.8095830813102,-64.8179164146102,-64.8179164146102,-64.8262497479102],"lat":[32.2662500654019,32.2662500654019,32.2579167321019,32.2579167321019,32.2579167321019,32.2579167321019,32.2579167321019,32.2579167321019,32.2662500654019,32.2662500654019,32.2745833987019,32.2745833987019,32.2829167320019,32.2829167320019,32.2745833987019,32.2745833987019,32.2745833987019,32.2662500654019,32.2662500654019]}]]],null,"bermuda2 - population",{"crs":{"crsClass":"L.CRS.EPSG3857","code":null,"proj4def":null,"projectedBounds":null,"options":{}},"pane":"polygon","stroke":true,"color":"#333333","weight":0.5,"opacity":[0.9,0.9,0.9,0.9,0.9,0.9,0.9,0.9,0.9,0.9,0.9],"fill":true,"fillColor":["#006791","#4B0055","#FDE333","#00C475","#7ED357","#00C475","#7ED357","#006791","#008298","#00C475","#7ED357"],"fillOpacity":[0.6,0.6,0.6,0.6,0.6,0.6,0.6,0.6,0.6,0.6,0.6],"smoothFactor":1,"noClip":false},["<div class='scrollableContainer'><table class=mapview-popup id='popup'><tr class='coord'><td><\/td><th><b>Feature ID&emsp;<\/b><\/th><td>1&emsp;<\/td><\/tr><tr><td>1<\/td><th>name&emsp;<\/th><td>City of Hamilton&emsp;<\/td><\/tr><tr><td>2<\/td><th>population&emsp;<\/th><td> 6340.716&emsp;<\/td><\/tr><tr><td>3<\/td><th>geometry&emsp;<\/th><td>sfc_MULTIPOLYGON&emsp;<\/td><\/tr><\/table><\/div>","<div class='scrollableContainer'><table class=mapview-popup id='popup'><tr class='coord'><td><\/td><th><b>Feature ID&emsp;<\/b><\/th><td>2&emsp;<\/td><\/tr><tr><td>1<\/td><th>name&emsp;<\/th><td>City of Saint George&emsp;<\/td><\/tr><tr><td>2<\/td><th>population&emsp;<\/th><td> 2112.074&emsp;<\/td><\/tr><tr><td>3<\/td><th>geometry&emsp;<\/th><td>sfc_MULTIPOLYGON&emsp;<\/td><\/tr><\/table><\/div>","<div class='scrollableContainer'><table class=mapview-popup id='popup'><tr class='coord'><td><\/td><th><b>Feature ID&emsp;<\/b><\/th><td>3&emsp;<\/td><\/tr><tr><td>1<\/td><th>name&emsp;<\/th><td>Devonshire&emsp;<\/td><\/tr><tr><td>2<\/td><th>population&emsp;<\/th><td>17478.636&emsp;<\/td><\/tr><tr><td>3<\/td><th>geometry&emsp;<\/th><td>sfc_MULTIPOLYGON&emsp;<\/td><\/tr><\/table><\/div>","<div class='scrollableContainer'><table class=mapview-popup id='popup'><tr class='coord'><td><\/td><th><b>Feature ID&emsp;<\/b><\/th><td>4&emsp;<\/td><\/tr><tr><td>1<\/td><th>name&emsp;<\/th><td>Hamilton&emsp;<\/td><\/tr><tr><td>2<\/td><th>population&emsp;<\/th><td>12606.292&emsp;<\/td><\/tr><tr><td>3<\/td><th>geometry&emsp;<\/th><td>sfc_MULTIPOLYGON&emsp;<\/td><\/tr><\/table><\/div>","<div class='scrollableContainer'><table class=mapview-popup id='popup'><tr class='coord'><td><\/td><th><b>Feature ID&emsp;<\/b><\/th><td>5&emsp;<\/td><\/tr><tr><td>1<\/td><th>name&emsp;<\/th><td>Paget&emsp;<\/td><\/tr><tr><td>2<\/td><th>population&emsp;<\/th><td>14804.220&emsp;<\/td><\/tr><tr><td>3<\/td><th>geometry&emsp;<\/th><td>sfc_MULTIPOLYGON&emsp;<\/td><\/tr><\/table><\/div>","<div class='scrollableContainer'><table class=mapview-popup id='popup'><tr class='coord'><td><\/td><th><b>Feature ID&emsp;<\/b><\/th><td>6&emsp;<\/td><\/tr><tr><td>1<\/td><th>name&emsp;<\/th><td>Pembroke&emsp;<\/td><\/tr><tr><td>2<\/td><th>population&emsp;<\/th><td>12243.552&emsp;<\/td><\/tr><tr><td>3<\/td><th>geometry&emsp;<\/th><td>sfc_MULTIPOLYGON&emsp;<\/td><\/tr><\/table><\/div>","<div class='scrollableContainer'><table class=mapview-popup id='popup'><tr class='coord'><td><\/td><th><b>Feature ID&emsp;<\/b><\/th><td>7&emsp;<\/td><\/tr><tr><td>1<\/td><th>name&emsp;<\/th><td>Saint George's&emsp;<\/td><\/tr><tr><td>2<\/td><th>population&emsp;<\/th><td>14198.692&emsp;<\/td><\/tr><tr><td>3<\/td><th>geometry&emsp;<\/th><td>sfc_MULTIPOLYGON&emsp;<\/td><\/tr><\/table><\/div>","<div class='scrollableContainer'><table class=mapview-popup id='popup'><tr class='coord'><td><\/td><th><b>Feature ID&emsp;<\/b><\/th><td>8&emsp;<\/td><\/tr><tr><td>1<\/td><th>name&emsp;<\/th><td>Sandys&emsp;<\/td><\/tr><tr><td>2<\/td><th>population&emsp;<\/th><td> 6111.398&emsp;<\/td><\/tr><tr><td>3<\/td><th>geometry&emsp;<\/th><td>sfc_MULTIPOLYGON&emsp;<\/td><\/tr><\/table><\/div>","<div class='scrollableContainer'><table class=mapview-popup id='popup'><tr class='coord'><td><\/td><th><b>Feature ID&emsp;<\/b><\/th><td>9&emsp;<\/td><\/tr><tr><td>1<\/td><th>name&emsp;<\/th><td>Smith's&emsp;<\/td><\/tr><tr><td>2<\/td><th>population&emsp;<\/th><td> 8230.446&emsp;<\/td><\/tr><tr><td>3<\/td><th>geometry&emsp;<\/th><td>sfc_MULTIPOLYGON&emsp;<\/td><\/tr><\/table><\/div>","<div class='scrollableContainer'><table class=mapview-popup id='popup'><tr class='coord'><td><\/td><th><b>Feature ID&emsp;<\/b><\/th><td>10&emsp;<\/td><\/tr><tr><td>1<\/td><th>name&emsp;<\/th><td>Southampton&emsp;<\/td><\/tr><tr><td>2<\/td><th>population&emsp;<\/th><td>13538.276&emsp;<\/td><\/tr><tr><td>3<\/td><th>geometry&emsp;<\/th><td>sfc_MULTIPOLYGON&emsp;<\/td><\/tr><\/table><\/div>","<div class='scrollableContainer'><table class=mapview-popup id='popup'><tr class='coord'><td><\/td><th><b>Feature ID&emsp;<\/b><\/th><td>11&emsp;<\/td><\/tr><tr><td>1<\/td><th>name&emsp;<\/th><td>Warwick&emsp;<\/td><\/tr><tr><td>2<\/td><th>population&emsp;<\/th><td>14461.775&emsp;<\/td><\/tr><tr><td>3<\/td><th>geometry&emsp;<\/th><td>sfc_MULTIPOLYGON&emsp;<\/td><\/tr><\/table><\/div>"],{"maxWidth":800,"minWidth":50,"autoPan":true,"keepInView":false,"closeButton":true,"closeOnClick":true,"className":""},["6340.71606445312","2112.07443237305","17478.6361694336","12606.2922363281","14804.2196350098","12243.551574707","14198.6921081543","6111.39785766602","8230.44647216797","13538.2760009766","14461.7752380371"],{"interactive":false,"permanent":false,"direction":"auto","opacity":1,"offset":[0,0],"textsize":"10px","textOnly":false,"className":"","sticky":true},{"stroke":true,"weight":1,"opacity":0.9,"fillOpacity":0.84,"bringToFront":false,"sendToBack":false}]},{"method":"addScaleBar","args":[{"maxWidth":100,"metric":true,"imperial":true,"updateWhenIdle":true,"position":"bottomleft"}]},{"method":"addHomeButton","args":[-64.8845830810102,32.2495833988019,-64.6512497486102,32.3829167316019,true,"bermuda2 - population","Zoom to bermuda2 - population","<strong> bermuda2 - population <\/strong>","bottomright"]},{"method":"addLayersControl","args":[["CartoDB.Positron","CartoDB.DarkMatter","OpenStreetMap","Esri.WorldImagery","OpenTopoMap"],"bermuda2 - population",{"collapsed":true,"autoZIndex":true,"position":"topleft"}]},{"method":"addLegend","args":[{"colors":["#4B0055 , #403073 12.285933574026%, #1C598A 25.3012068291776%, #017D97 38.3164800843292%, #029E94 51.3317533394808%, #05BA81 64.3470265946324%, #6BCF60 77.362299849784%, #C4DE34 90.3775731049356%, #FDE333 "],"labels":["4,000","6,000","8,000","10,000","12,000","14,000","16,000"],"na_color":null,"na_label":"NA","opacity":1,"position":"topright","type":"numeric","title":"bermuda2 - population","extra":{"p_1":0.12285933574026,"p_n":0.903775731049356},"layerId":null,"className":"info legend","group":"bermuda2 - population"}]}],"limits":{"lat":[32.2495833988019,32.3829167316019],"lng":[-64.8845830810102,-64.6512497486102]},"fitBounds":[32.2495833988019,-64.8845830810102,32.3829167316019,-64.6512497486102,[]]},"evals":[],"jsHooks":{"render":[{"code":"function(el, x, data) {\n  return (\n      function(el, x, data) {\n      // get the leaflet map\n      var map = this; //HTMLWidgets.find('#' + el.id);\n      // we need a new div element because we have to handle\n      // the mouseover output separately\n      // debugger;\n      function addElement () {\n      // generate new div Element\n      var newDiv = $(document.createElement('div'));\n      // append at end of leaflet htmlwidget container\n      $(el).append(newDiv);\n      //provide ID and style\n      newDiv.addClass('lnlt');\n      newDiv.css({\n      'position': 'relative',\n      'bottomleft':  '0px',\n      'background-color': 'rgba(255, 255, 255, 0.7)',\n      'box-shadow': '0 0 2px #bbb',\n      'background-clip': 'padding-box',\n      'margin': '0',\n      'padding-left': '5px',\n      'color': '#333',\n      'font': '9px/1.5 \"Helvetica Neue\", Arial, Helvetica, sans-serif',\n      'z-index': '700',\n      });\n      return newDiv;\n      }\n\n\n      // check for already existing lnlt class to not duplicate\n      var lnlt = $(el).find('.lnlt');\n\n      if(!lnlt.length) {\n      lnlt = addElement();\n\n      // grab the special div we generated in the beginning\n      // and put the mousmove output there\n\n      map.on('mousemove', function (e) {\n      if (e.originalEvent.ctrlKey) {\n      if (document.querySelector('.lnlt') === null) lnlt = addElement();\n      lnlt.text(\n                           ' lon: ' + (e.latlng.lng).toFixed(5) +\n                           ' | lat: ' + (e.latlng.lat).toFixed(5) +\n                           ' | zoom: ' + map.getZoom() +\n                           ' | x: ' + L.CRS.EPSG3857.project(e.latlng).x.toFixed(0) +\n                           ' | y: ' + L.CRS.EPSG3857.project(e.latlng).y.toFixed(0) +\n                           ' | epsg: 3857 ' +\n                           ' | proj4: +proj=merc +a=6378137 +b=6378137 +lat_ts=0.0 +lon_0=0.0 +x_0=0.0 +y_0=0 +k=1.0 +units=m +nadgrids=@null +no_defs ');\n      } else {\n      if (document.querySelector('.lnlt') === null) lnlt = addElement();\n      lnlt.text(\n                      ' lon: ' + (e.latlng.lng).toFixed(5) +\n                      ' | lat: ' + (e.latlng.lat).toFixed(5) +\n                      ' | zoom: ' + map.getZoom() + ' ');\n      }\n      });\n\n      // remove the lnlt div when mouse leaves map\n      map.on('mouseout', function (e) {\n      var strip = document.querySelector('.lnlt');\n      if( strip !==null) strip.remove();\n      });\n\n      };\n\n      //$(el).keypress(67, function(e) {\n      map.on('preclick', function(e) {\n      if (e.originalEvent.ctrlKey) {\n      if (document.querySelector('.lnlt') === null) lnlt = addElement();\n      lnlt.text(\n                      ' lon: ' + (e.latlng.lng).toFixed(5) +\n                      ' | lat: ' + (e.latlng.lat).toFixed(5) +\n                      ' | zoom: ' + map.getZoom() + ' ');\n      var txt = document.querySelector('.lnlt').textContent;\n      console.log(txt);\n      //txt.innerText.focus();\n      //txt.select();\n      setClipboardText('\"' + txt + '\"');\n      }\n      });\n\n      }\n      ).call(this.getMap(), el, x, data);\n}","data":null},{"code":"function(el, x, data) {\n  return (function(el,x,data){\n           var map = this;\n\n           map.on('keypress', function(e) {\n               console.log(e.originalEvent.code);\n               var key = e.originalEvent.code;\n               if (key === 'KeyE') {\n                   var bb = this.getBounds();\n                   var txt = JSON.stringify(bb);\n                   console.log(txt);\n\n                   setClipboardText('\\'' + txt + '\\'');\n               }\n           })\n        }).call(this.getMap(), el, x, data);\n}","data":null}]}}</script>
 </div>
 </div>
 <div id="methods" class="section level2">
